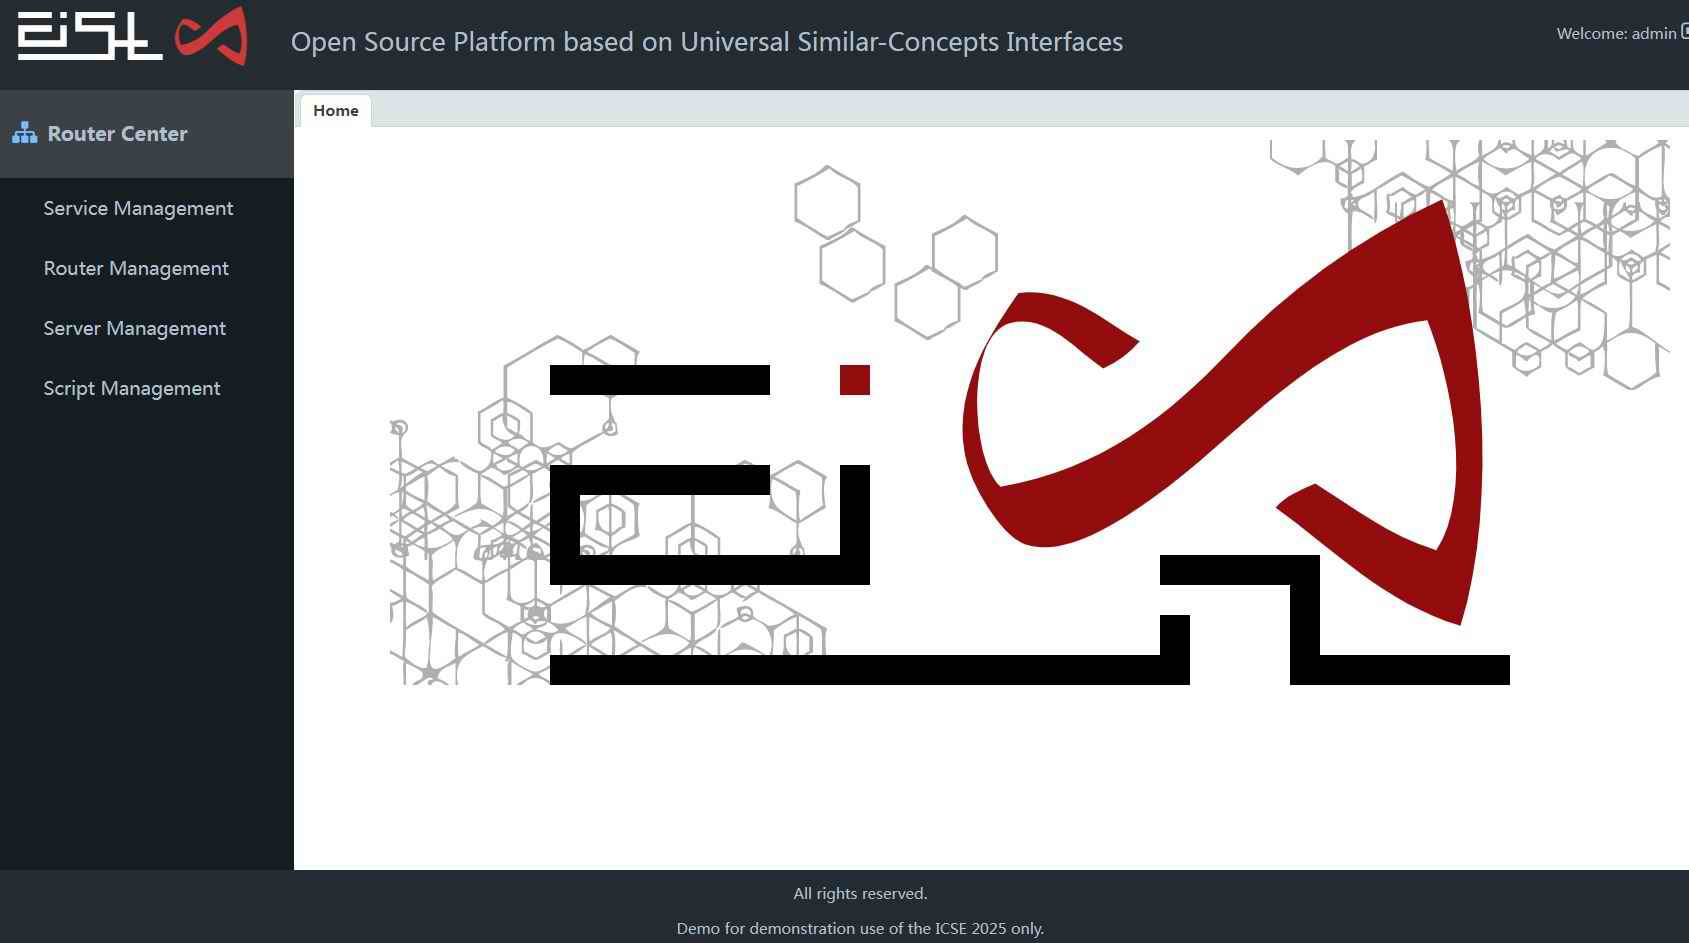
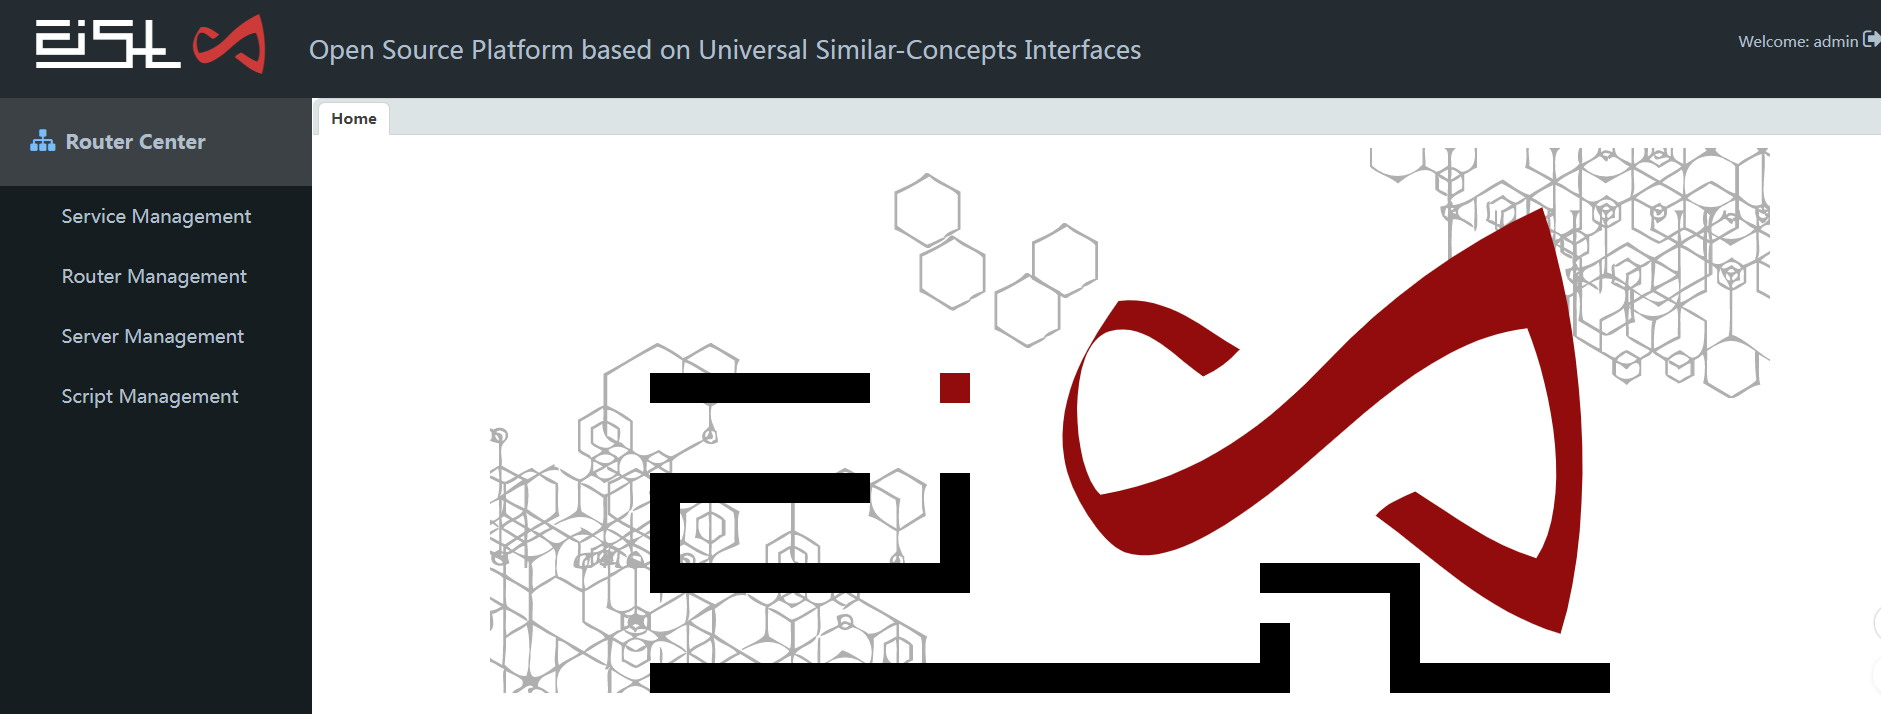
revise demo page.

diff --git a/docs/en/8.1-demo-of-eight.md b/docs/en/8.1-demo-of-eight.md
@@ -28,7 +28,7 @@ tr:nth-child(even) {
 }
 </style>
 
-This manual is for the prototype platform and demonstration system for ICSE 2025, adhering to the Attribution 4.0 International license agreement.
+This manual is for the prototype platform and demonstration system for OOPSLA 2025, adhering to the Attribution 4.0 International license agreement.
 
 EIGHT has an online version available on the internet, allowing for online deployment, updates, and management of EIGHT nodes, making usage and operation more convenient. However, due to the requirements of anonymous review, only local host operations are currently provided. This requires extracting the files from runtime.zip, where eight-seat-1.0.0.jar serves as the seat of the EIGHT platform, including the EIGHT runtime, basic libraries, and some commonly used third-party libraries. The work directory contains some pre-configured systems. The work directory also has two subdirectories, reg and reg-config, whose functions will be introduced later.
 
@@ -122,7 +122,7 @@ We click on the configuration of documents-documents and see that the default `t
 
 After creating the directory and placing the files, we can try a keyword, for example:
 
-![search-demo](/eight/assets/images/search-demo.jpg){: width="300" }
+![search-demo](/eight/assets/images/search.jpg){: width="500" }
 
 The result is output in JSON format. As mentioned earlier, the formatter component is responsible for formatting in this application. Let's modify the configuration of the instance corresponding to this component:
 
@@ -130,7 +130,7 @@ The result is output in JSON format. As mentioned earlier, the formatter compone
 
 The instance has a configuration item `framework.formatter.mode`{:.info}, which is `true`{:.error} by default. Let's change it to `false`{:.error} and see the effect.
 
-![search-icse](/eight/assets/images/search-icse.jpg){: width="300" }
+![search-icse](/eight/assets/images/search-formatter.jpg){: width="300" }
 
 The same result is now output in XML format.
 
@@ -598,7 +598,7 @@ graph LR;
 
 This example is also pre-configured in the ros-pub-ui-with-search application. You can compare it with search application. Bind it to an EIGHT node, then open the corresponding URL: http://ip:7241/user/index.html. The familiar interface appears again.
 
-![ros-search interface](/eight/assets/images/search-icse.jpg){: width="400" }
+![ros-search interface](/eight/assets/images/search-formatter.jpg){: width="400" }
 
 The function is identical to the original SEARCH system, except that each time a query is made, the number of matching keywords is propagated to various systems, as shown:
 

diff --git a/docs/zh/3.3-switch-a-system.md b/docs/zh/3.3-switch-a-system.md
@@ -56,8 +56,12 @@ DEMO系统的界面在[http://localhost:7241/ui/index](http://localhost:7241/ui/
 ```mermaid
 graph LR;
     A((web browser)) -.-> B[asset]
-    A -.-> C[ui]
+    A -.-> C[router ui]    
     C -.-> D[http api]
+    A -.-> N[portal ui]
+    N -.-> D
+    A -.-> O[bundle ui]
+    O -.-> D    
     D --> E[dispatch]
     E --> F[portal service]
     E --> G[portal-common service]
@@ -68,9 +72,10 @@ graph LR;
     F --> L[session]
     G --> L
     H --> L
-    I --> M[(database:memory-resource)]
+    I --> M[(database)]
     J --> M
     K --> M
+    E --> N[app service]
 ```
 
 系统大体结构是：
